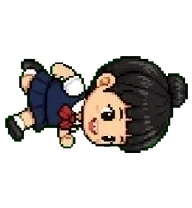
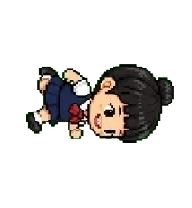
Polish Yoyo edge crawl assets

Changed region(s): [[0.0, 0.2596, 1.0, 0.75]]

diff --git a/src/modules/core-state.js b/src/modules/core-state.js
@@ -27,7 +27,7 @@ export const STATES = {
   waiting: { row: 6, frames: 8, fps: 3, loop: 'pingpong' },
   bashful: { row: 7, frames: 6, speed: 250, loop: 'pingpong' },
   review: { row: 8, frames: 6, fps: 4, loop: 'pingpong' },
-  climbing: { row: 9, frames: 6, fps: 5 },
+  climbing: { row: 9, frames: 8, fps: 5 },
   perching: { row: 10, frames: 4, fps: 3, loop: 'pingpong' },
   petting: { row: 11, frames: 8, fps: 4, loop: 'pingpong' },
   yawning: { row: 12, frames: 5, fps: 3, loop: 'pingpong' },
